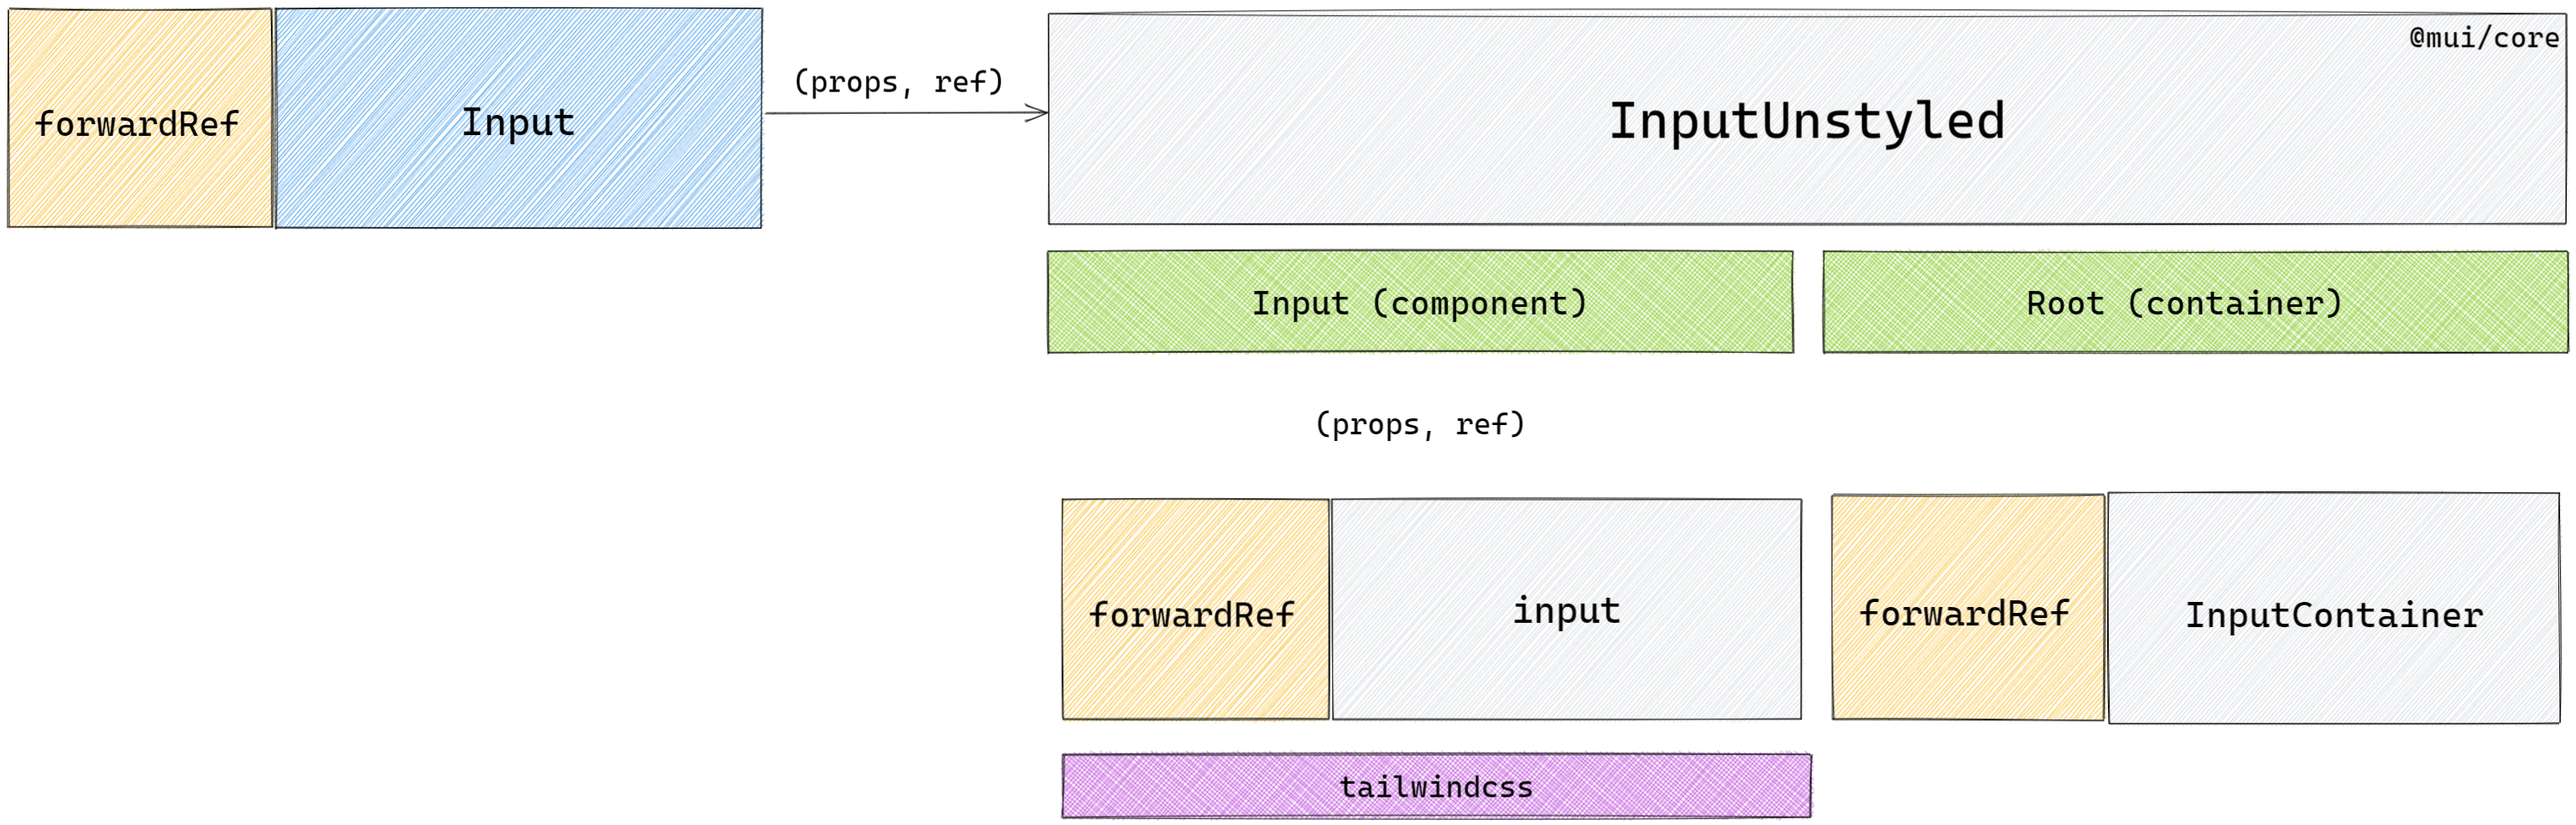
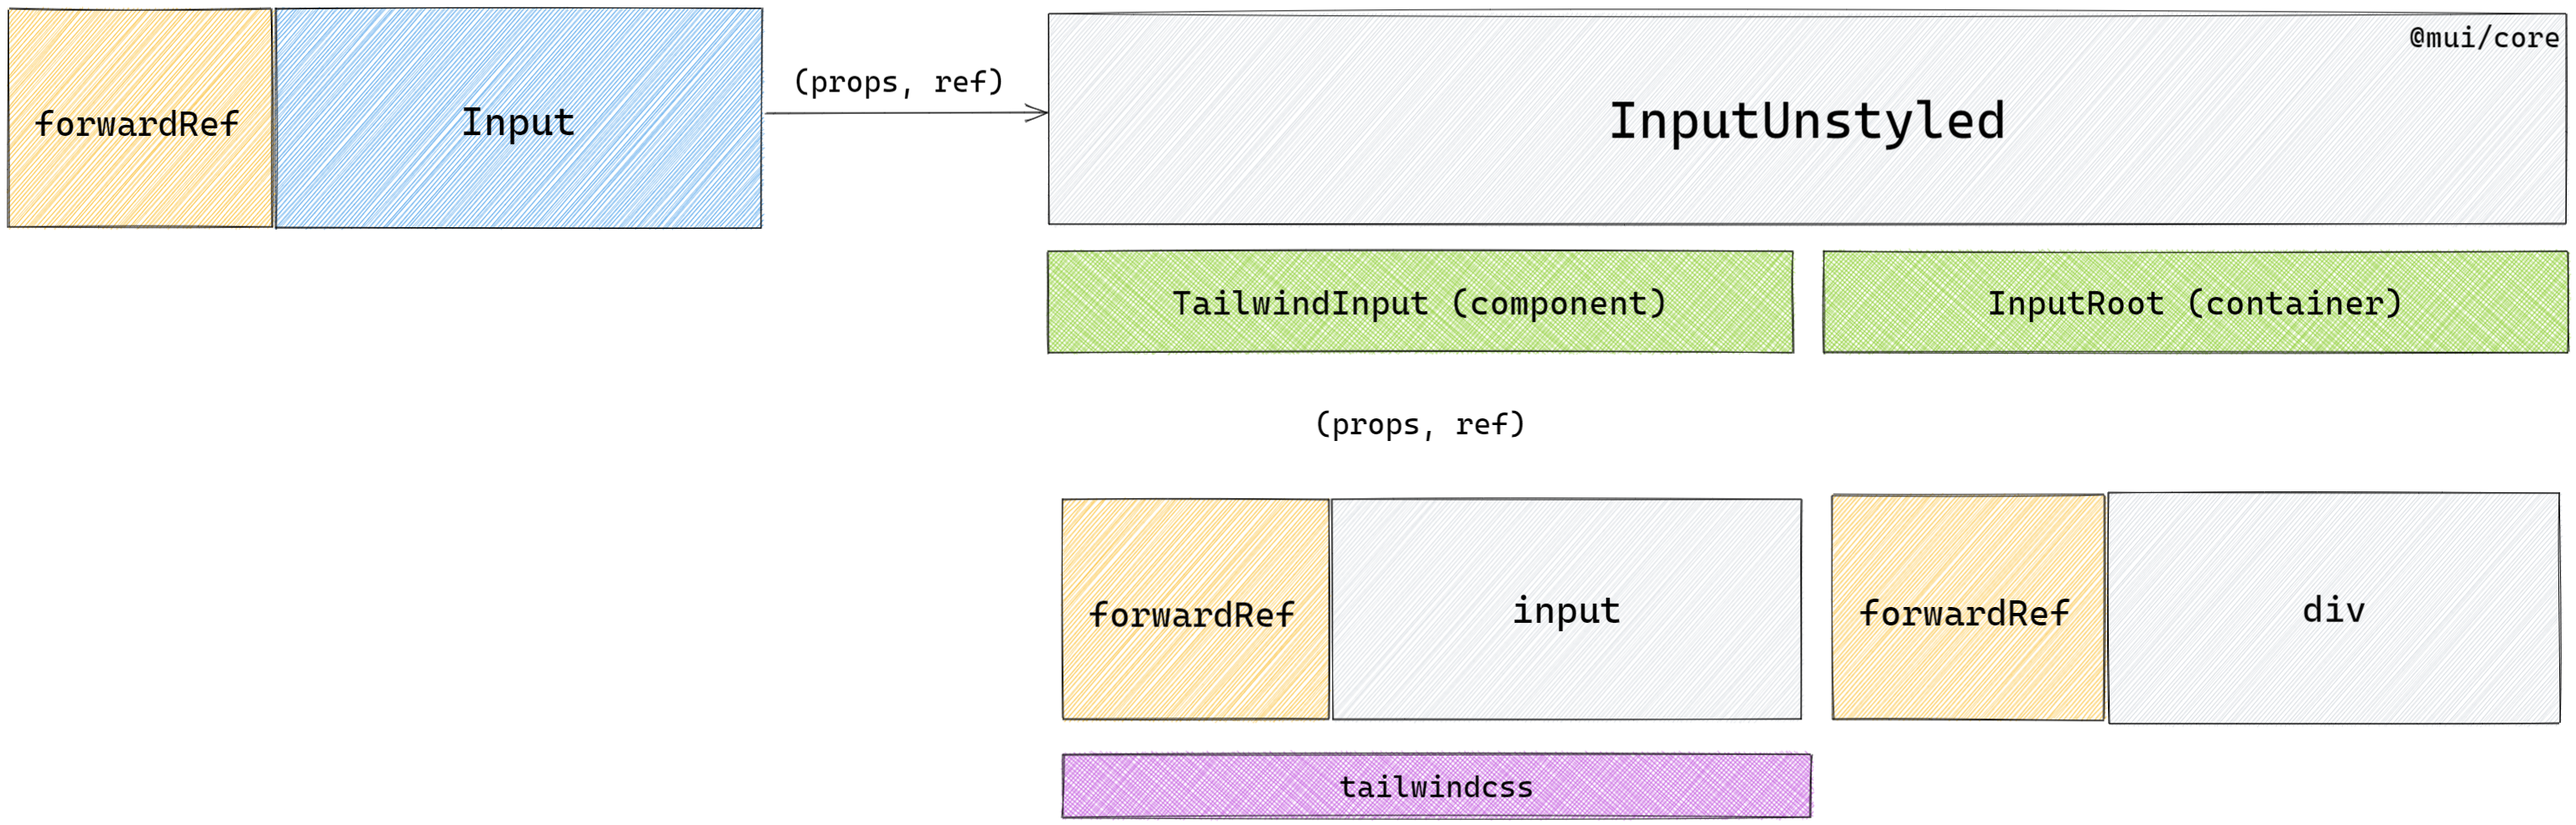
Tailwind example

Changed region(s): [[0.464, 0.3354, 0.6496, 0.3963], [0.7734, 0.3354, 0.928, 0.3963], [0.8352, 0.7317, 0.959, 0.7622]]

diff --git a/apps/mui-tailwind/components/Input.tsx b/apps/mui-tailwind/components/Input.tsx
@@ -2,25 +2,22 @@ import { InputUnstyled, InputUnstyledProps } from '@mui/core';
 import React from 'react';
 import type { PropsWithChildren } from 'react';
 
-const Input = React.forwardRef<HTMLDivElement, InputUnstyledProps>(
-  (props, ref) => {
-    console.log('Incoming Custom Input props:', props);
-    return (
-      <InputUnstyled
-        {...props}
-        components={{
-          // redirect the `ref` to the input for react-hook-form
-          Input: (props) => <StyledInput {...props} ref={ref} />,
-          Root: InputContainer,
-        }}
-      />
-    );
-  }
+const Input = React.forwardRef<HTMLInputElement, InputUnstyledProps>(
+  (props, ref) => (
+    <InputUnstyled
+      ref={ref}
+      {...props}
+      components={{
+        Input: TailwindInput,
+        Root: InputRoot,
+      }}
+    />
+  )
 );
 
 Input.displayName = 'Input';
 
-const StyledInput = React.forwardRef<
+const TailwindInput = React.forwardRef<
   HTMLInputElement,
   JSX.IntrinsicElements['input'] & {
     ownerState: Record<string, unknown>;
@@ -30,27 +27,36 @@ const StyledInput = React.forwardRef<
   // at the very least it needs to be stripped so not to be injected into the DOM
   // it could also be leveraged for additional stylistic/logical choices
   const { ownerState, ...rest } = props;
-  // console.log('ownerState', ownerState);
-  return <input {...rest} ref={ref} className="border-2 border-indigo-600" />;
+
+  return (
+    <input
+      {...rest}
+      ref={ref}
+      className="border-2 rounded-md border-indigo-600"
+    />
+  );
 });
 
-StyledInput.displayName = 'StyledInput';
+TailwindInput.displayName = 'StyledInput';
 
-const InputContainer = React.forwardRef<
+const InputRoot = React.forwardRef<
   HTMLDivElement,
-  PropsWithChildren<{
-    ownerState: Record<string, unknown>;
-  }>
+  PropsWithChildren<
+    JSX.IntrinsicElements['input'] & {
+      ownerState: Record<string, unknown>;
+    }
+  >
 >((props, ref) => {
-  const { ownerState, children, ...rest } = props;
-  // console.log('ownerState', ownerState);
+  // strip ownerState, and className to remove Mui classes
+  const { ownerState, children, className, ...rest } = props;
+
   return (
-    <div ref={ref} {...rest}>
+    <div {...rest} ref={ref}>
       {children}
     </div>
   );
 });
 
-InputContainer.displayName = 'InputContainer';
+InputRoot.displayName = 'InputContainer';
 
 export default Input;

diff --git a/apps/mui-tailwind/pages/index.tsx b/apps/mui-tailwind/pages/index.tsx
@@ -8,9 +8,16 @@ export function Index() {
    */
   return (
     <div className="flex flex-col justify-around">
-      InputStyled (@mui/core)
-      <Input onChange={(event) => console.log(event.target)} />
-      <img src="/mui-core-with-tailwind.png" />
+      <h2 className="text-3xl font-semibold text-indigo-500 mb-8">Overview</h2>
+      <img src="/mui-core-with-tailwind.png" width="1200px" />
+      <h2 className="text-3xl font-semibold text-indigo-500 mb-8">
+        Material API Example
+      </h2>
+      <Input
+        onChange={(event) => console.log(event.target)}
+        startAdornment={<span className="text-green-400">RESOLVED</span>}
+        endAdornment={<span className="text-red-400">IMPORTANT</span>}
+      />
     </div>
   );
 }

diff --git a/apps/mui-tailwind/pages/form.tsx b/apps/mui-tailwind/pages/form.tsx
@@ -18,7 +18,12 @@ function Form() {
   return (
     <form onSubmit={onSubmit}>
       Email
-      <Input {...register('email')} />
+      <Input
+        {...register('email')}
+        autoFocus
+        className="border-2 rounded-md border-indigo-600"
+        endAdornment={<span className="text-red-400">IMPORTANT</span>}
+      />
       Password
       <Input {...register('password')} />
       Display Name
